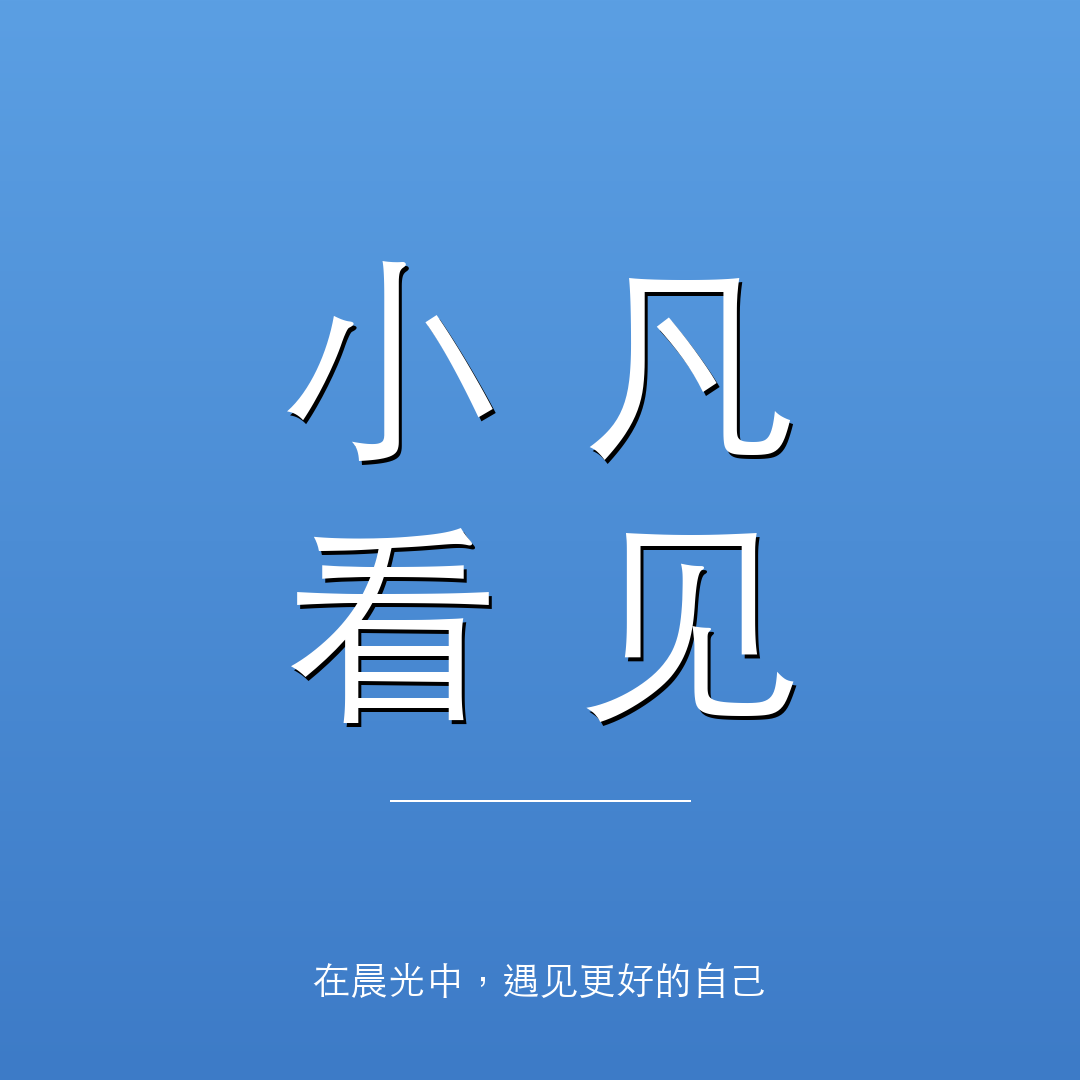
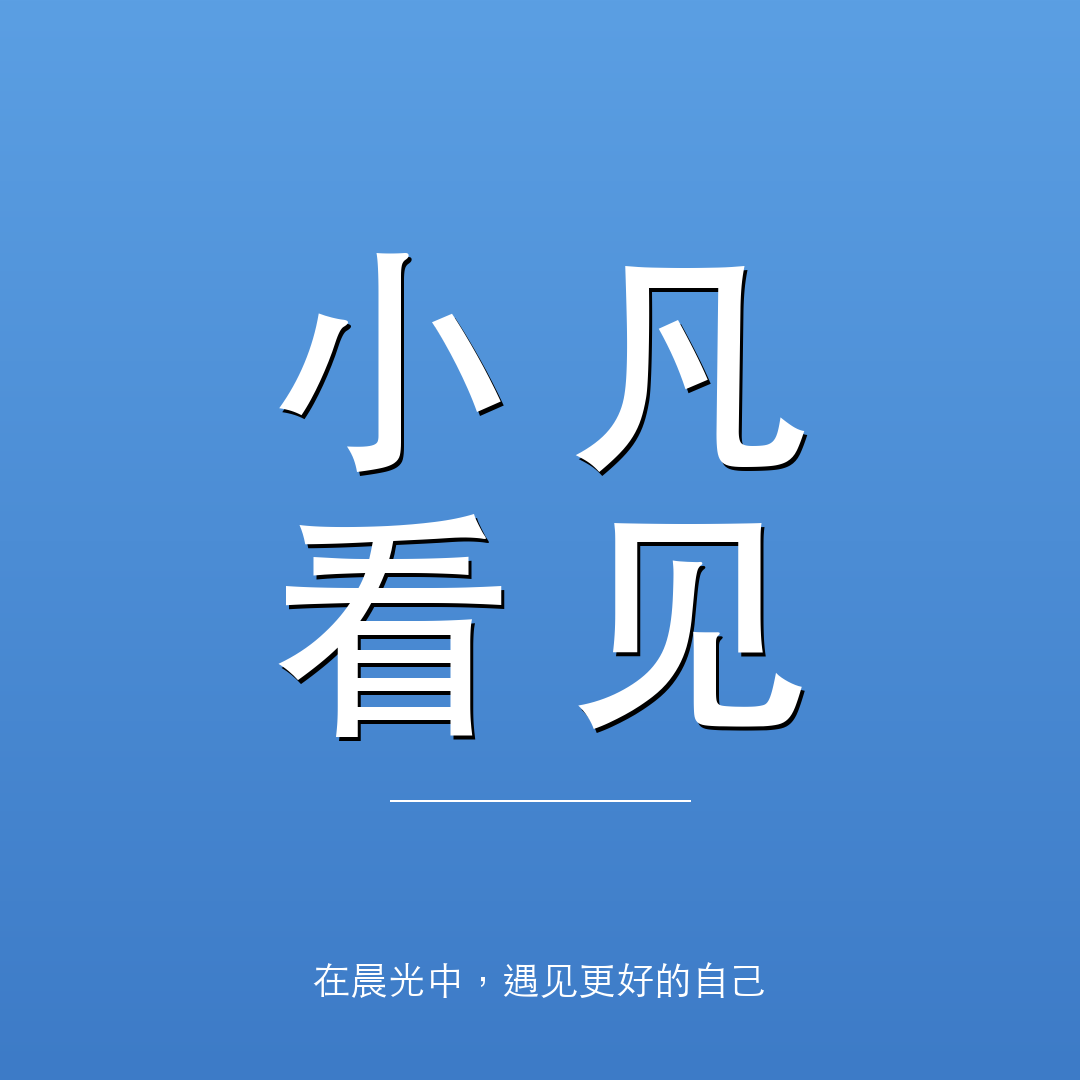
feat: 加粗并加大主标题字体
- 字体变粗: STHeiti Light → STHeiti Medium（粗体）
- 字体增大: 220px → 250px
- '小凡看见'四个字现在更粗更大，视觉冲击力更强

✨ Generated with Claude Code

diff --git a/generate_share_image.py b/generate_share_image.py
@@ -48,8 +48,13 @@ def generate_share_image():
     font_path = find_font()
 
     if font_path and os.path.exists(font_path):
-        # 调整字体大小：300太大了，改为240
-        font_main = ImageFont.truetype(font_path, 220)
+        # 使用粗体字体，字体大小增加到 250
+        # 尝试加载粗体版本
+        bold_font_path = font_path.replace("Light", "Medium").replace("Light", "Bold")
+        if not os.path.exists(bold_font_path):
+            bold_font_path = font_path
+
+        font_main = ImageFont.truetype(bold_font_path, 250)
         font_subtitle = ImageFont.truetype(font_path, 38)
     else:
         print("⚠  使用默认字体")
